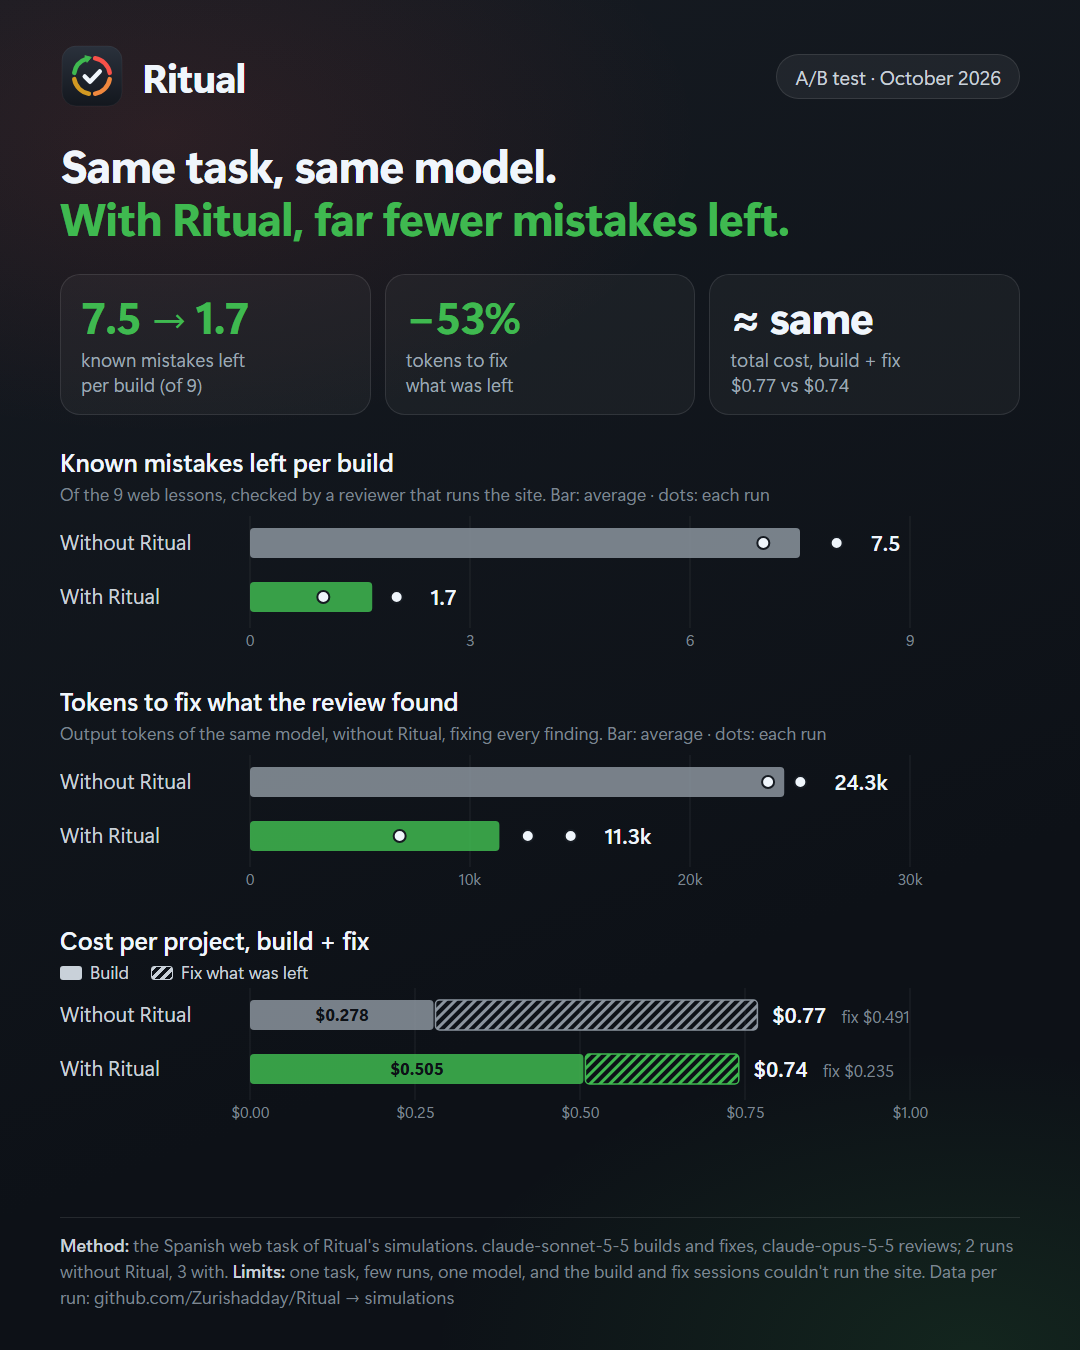
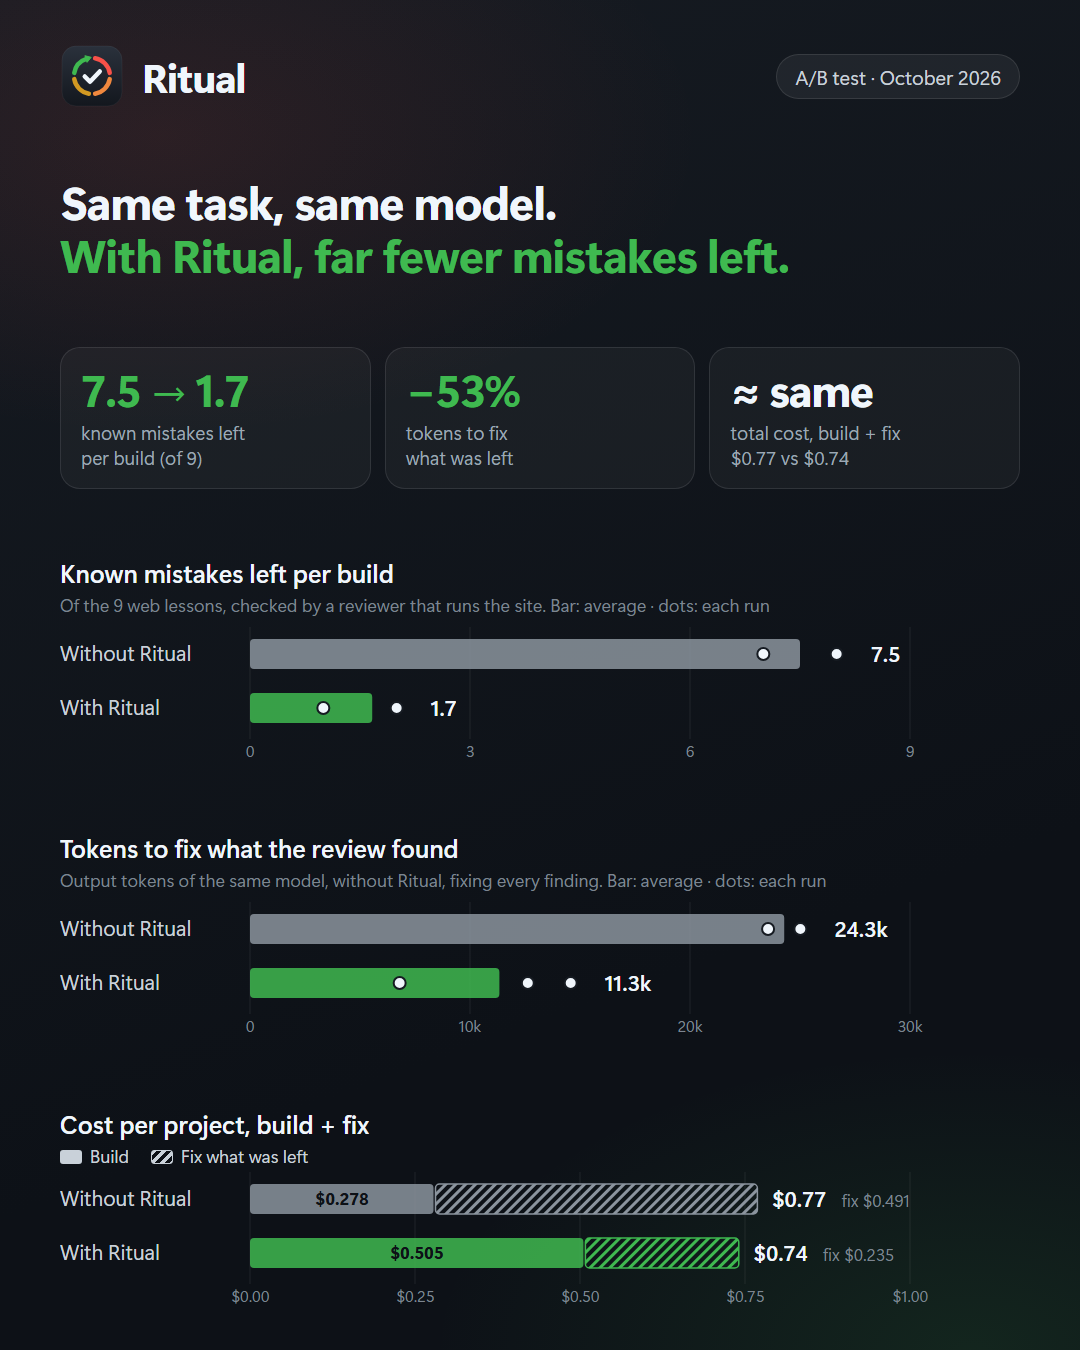
The A/B chart without the method footer
The method and its limits stay in simulations/README.md, linked from the
README; the image keeps the three charts and their numbers.

diff --git a/assets/social/ab-chart.html b/assets/social/ab-chart.html
@@ -4,7 +4,7 @@
 <html><head><meta charset="utf-8"><link rel="stylesheet" href="common.css">
 <style>
   html, body { width: 1080px; height: 1350px; }
-  .page { height: 1350px; padding: 44px 60px 40px; display: flex; flex-direction: column; gap: 30px; }
+  .page { height: 1350px; padding: 44px 60px 40px; display: flex; flex-direction: column; justify-content: space-between; }
   .head { display: flex; align-items: center; gap: 18px; }
   .head img { width: 64px; height: 64px; }
   .head b { font-size: 40px; letter-spacing: -1px; }
@@ -19,8 +19,6 @@
   .legend { display: flex; gap: 22px; font-size: 18px; color: #c9d1d9; margin-bottom: 4px; }
   .legend i { display: inline-block; width: 22px; height: 14px; border-radius: 3px; vertical-align: -1px; margin-right: 8px; }
   svg text { font-family: "Segoe UI Variable Display", "Segoe UI", system-ui, sans-serif; }
-  .foot { margin-top: auto; font-size: 18px; color: #7d8590; line-height: 1.45; border-top: 1px solid rgba(255,255,255,.10); padding-top: 14px; }
-  .foot b { color: #c9d1d9; font-weight: 600; }
 </style></head>
 <body><div class="page">
   <div class="head"><img src="../logo.svg" alt=""><b>Ritual</b><div class="pill">A/B test · October 2026</div></div>
@@ -35,7 +33,6 @@
   <div class="chart"><h2>Cost per project, build + fix</h2>
     <div class="legend"><span><i style="background:#c9d1d9"></i>Build</span><span><i style="background:repeating-linear-gradient(135deg,#c9d1d9 0 3px,transparent 3px 7px);border:1px solid #c9d1d9"></i>Fix what was left</span></div>
     <svg id="cost"></svg></div>
-  <div class="foot"><b>Method:</b> the Spanish web task of Ritual's simulations. claude-sonnet-5-5 builds and fixes, claude-opus-5-5 reviews; 2 runs without Ritual, 3 with. <b>Limits:</b> one task, few runs, one model, and the build and fix sessions couldn't run the site. Data per run: github.com/Zurishadday/Ritual → simulations</div>
 </div>
 <script>
   const ARMS = [
